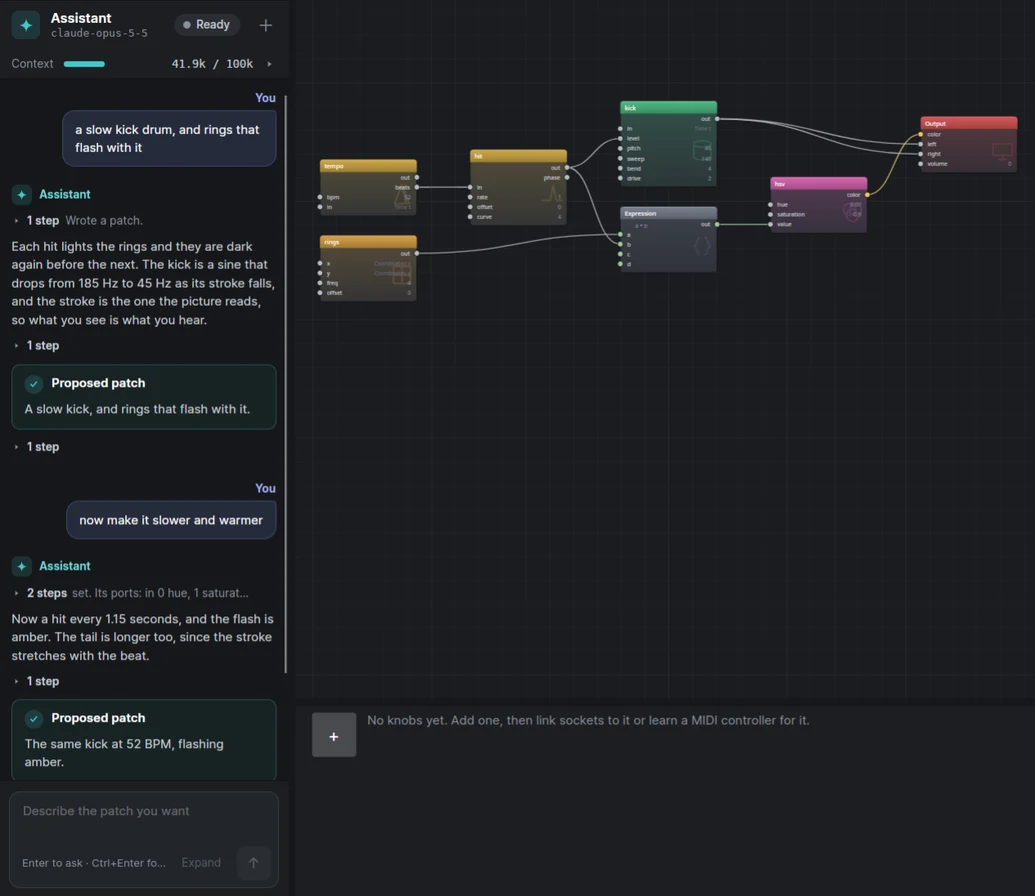
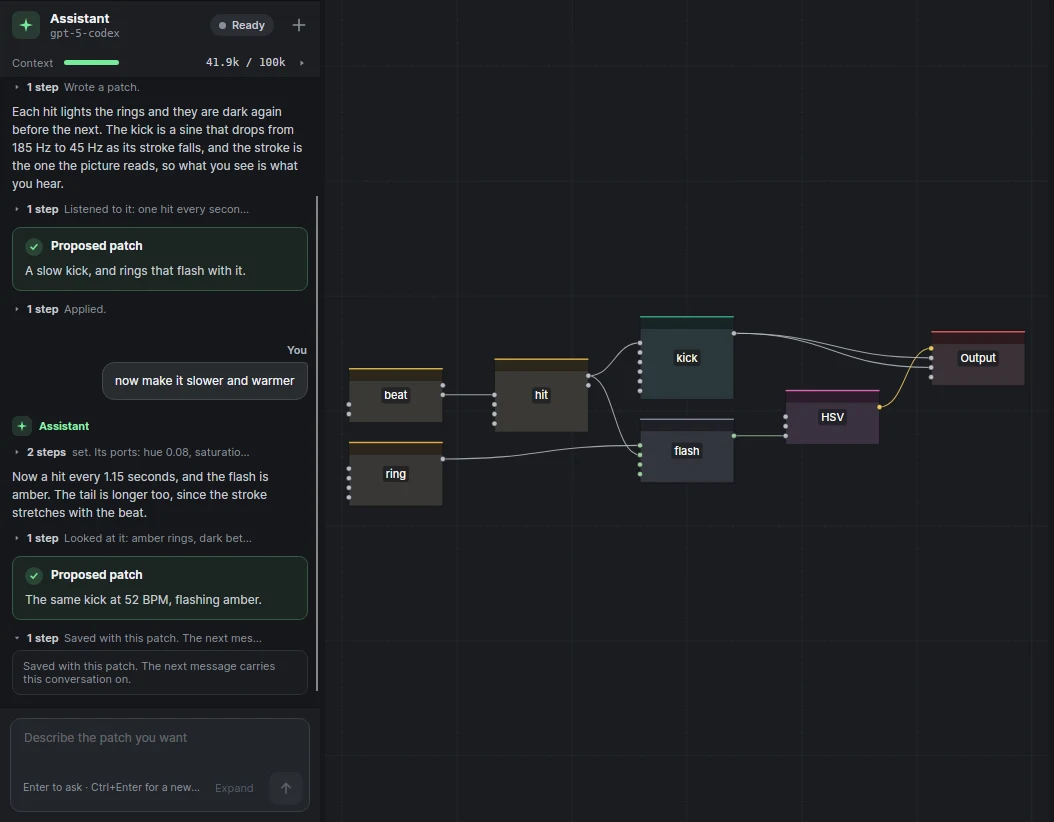
The site's assistant shot shows the editor in Phosphor
Drawn with `flyback-cli shot --assistant` from a bundle carrying a two-turn
conversation about a slow kick and flashing rings, cropped to the assistant's
column and the canvas.

Claude-Session: https://claude.ai/code/session_013fHfAKH1j49TKRDSFtLbmw

diff --git a/site/layouts/home.html b/site/layouts/home.html
@@ -150,7 +150,7 @@ color.rgb(r: r, g: g, b: b) |> out.color</code></pre>
 
     <figure class="diagram">
       <a class="zoom" href="assets/shots/assistant.webp">
-        <img class="shot" loading="lazy" src="assets/shots/assistant.webp" width="1035" height="896"
+        <img class="shot" loading="lazy" src="assets/shots/assistant.webp" width="1054" height="822"
              alt="The assistant's column beside the canvas. Asked for a slow kick drum that makes the rings flash, it wrote a patch and proposed it; asked to make it slower and warmer, it set the tempo and the hue and proposed that. Each answer sits in the column's history with the steps it took folded away.">
       </a>
       <figcaption>Two turns: a patch built and handed over, then changed on request. Each lands on the canvas as one edit.</figcaption>

diff --git a/.claude/skills/site-screenshots/stale.md b/.claude/skills/site-screenshots/stale.md
@@ -3,5 +3,4 @@
 Shots in `site/static/assets/shots` that no longer match the app and need the real window to retake, waiting for a retake session. One line per shot: the file, where the site uses it, what no longer matches, the date it went stale. A shot comes off the list in the commit that retakes it.
 
 
-- assistant (index.html): drawn before the editor's own look; it needs the Phosphor scheme, the panel-mark toolbar, flat modules and the transport row's Live button. `shot --assistant` can draw it once a patch carrying the conversation is saved. 2026-11-05.
 - presets-list (index.html): drawn before the editor's own look. `shot --gallery` draws the gallery headless but leaves every preset's picture empty, so it still needs the real window. 2026-11-05.
